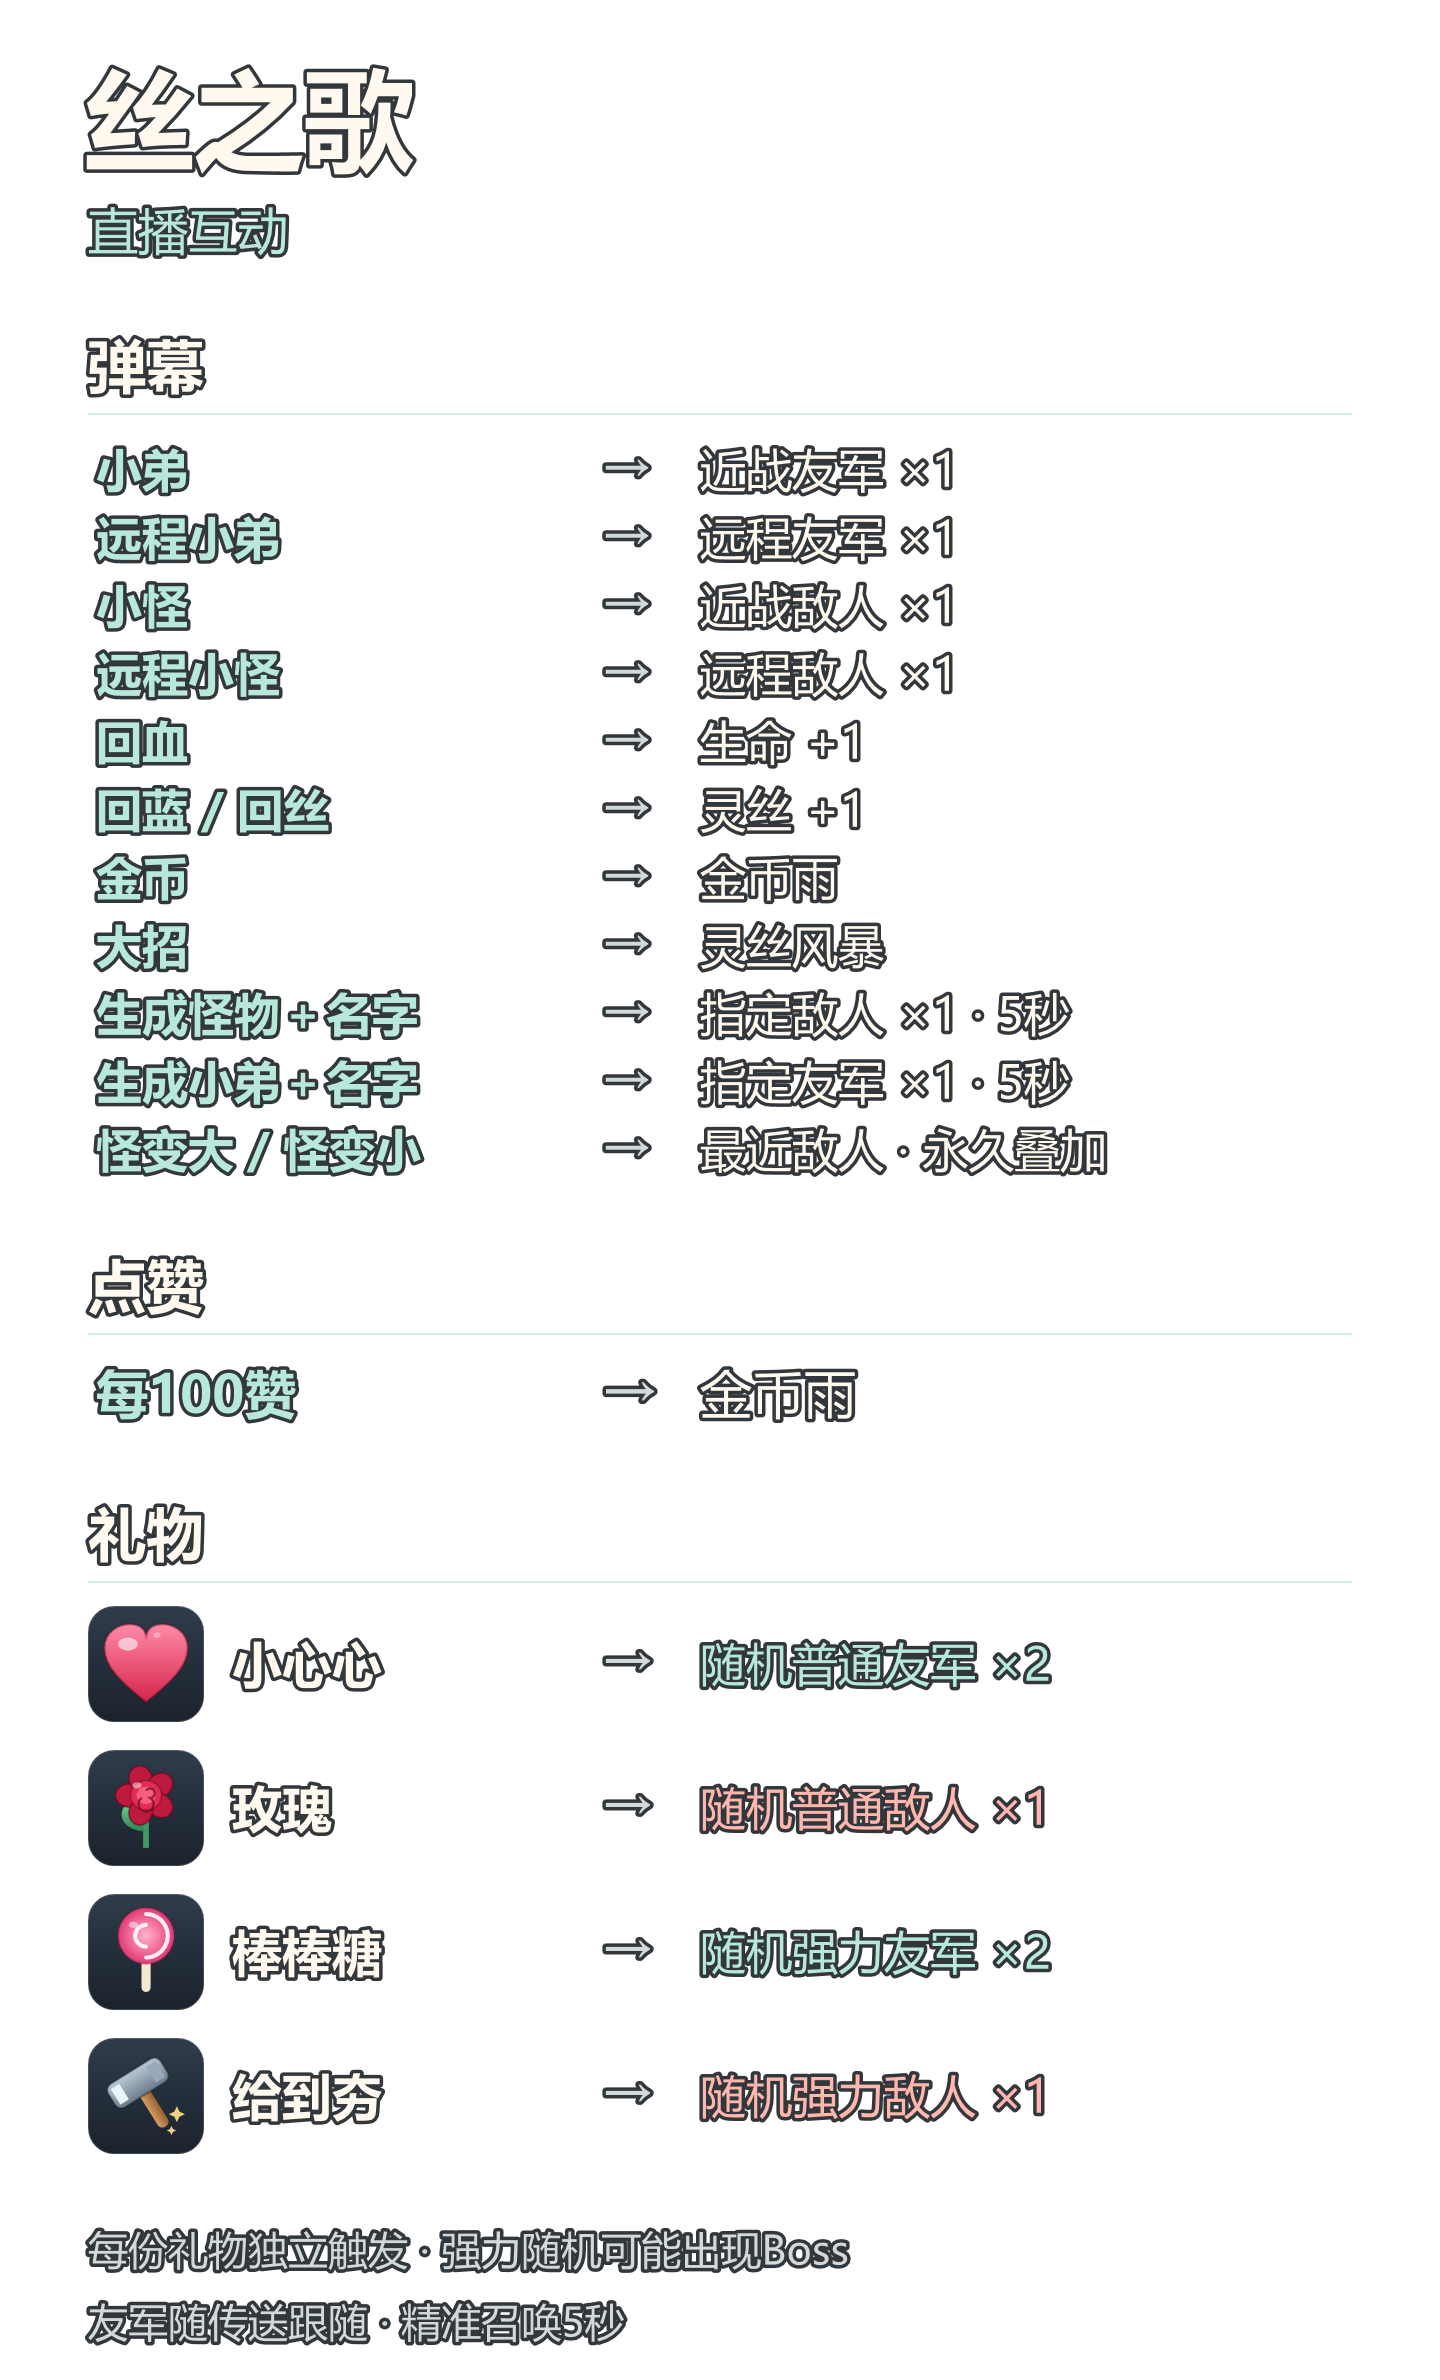
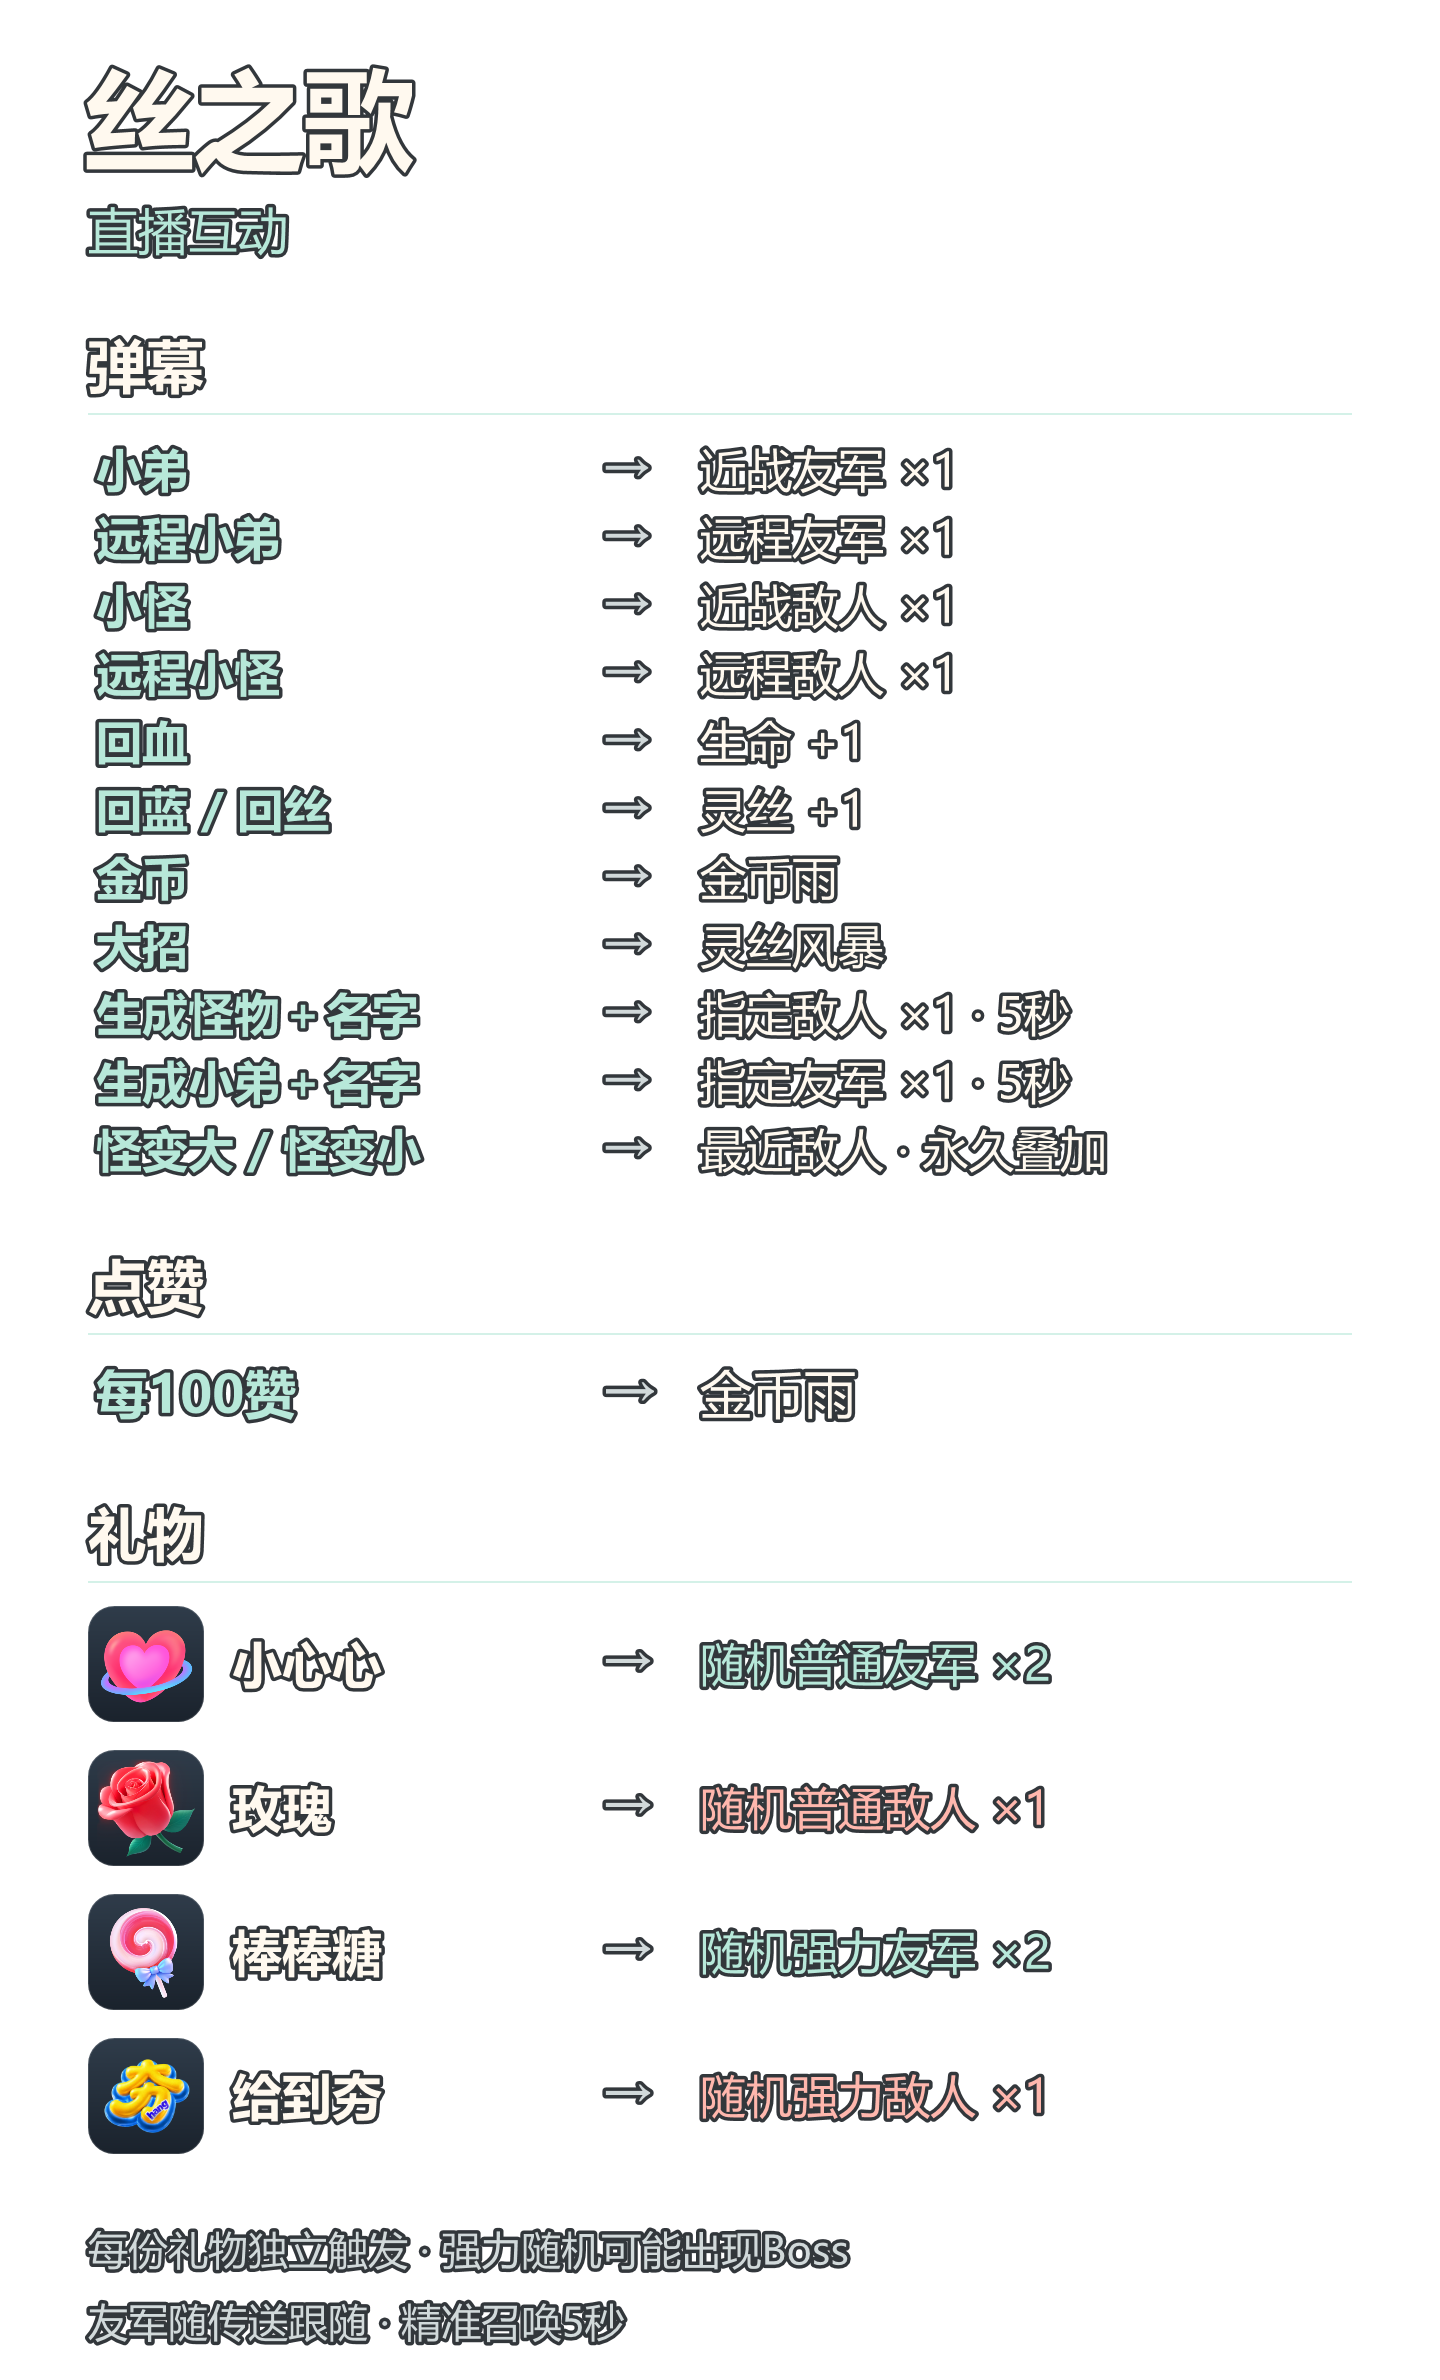
Use official Douyin gift art on the poster

Changed region(s): [[0.0625, 0.684, 0.125, 0.9017]]

diff --git a/tools/PosterRender/Program.cs b/tools/PosterRender/Program.cs
@@ -12,12 +12,13 @@ internal static class Program
     static readonly Brush ink=ColorBrush("#FFF9EF"),green=ColorBrush("#B7E8D9"),red=ColorBrush("#FFB7AD"),muted=ColorBrush("#D1D9DA");
     static Brush ColorBrush(string v)=>new SolidColorBrush((Color)ColorConverter.ConvertFromString(v));
     static JsonArray rules=null!;
+    static string root=null!;
     static JsonObject Rule(string id)=>rules.OfType<JsonObject>().Single(r=>(string?)r["Id"]==id);
     static string Arg(string id,string key)=>(string)Rule(id)["Root"]!["Arguments"]![key]!;
     [STAThread]
     static void Main(string[] args)
     {
-        var root=System.IO.Path.GetFullPath(args[0]);rules=JsonNode.Parse(System.IO.File.ReadAllText(System.IO.Path.Combine(root,"profiles","丝之歌-弹幕助力.json")))!["Rules"]!.AsArray();
+        root=System.IO.Path.GetFullPath(args[0]);rules=JsonNode.Parse(System.IO.File.ReadAllText(System.IO.Path.Combine(root,"profiles","丝之歌-弹幕助力.json")))!["Rules"]!.AsArray();
         var folder=System.IO.Path.Combine(root,"直播素材","0.6新版");System.IO.Directory.CreateDirectory(folder);
         var visual=new DrawingVisual();using(var context=visual.RenderOpen())
         {
@@ -26,10 +27,10 @@ internal static class Program
             for(var i=0;i<chat.Length;i++)Row(chat[i].Item1,chat[i].Item2,220+i*34,23);
             Section("点赞",44,624,632);Row("每100赞","金币雨",680,26);
             Section("礼物",44,748,632);
-            Gift("heart",(string)Rule("v06-heart")["Trigger"]!["GiftName"]!,"随机普通友军 ×2",803,green);
-            Gift("rose",(string)Rule("v06-note")["Trigger"]!["GiftName"]!,"随机普通敌人 ×1",875,red);
-            Gift("lollipop",(string)Rule("v06-strong-friend")["Trigger"]!["GiftName"]!,"随机强力友军 ×2",947,green);
-            Gift("hammer",(string)Rule("v06-strong-enemy")["Trigger"]!["GiftName"]!,"随机强力敌人 ×1",1019,red);
+            Gift("heart.png",(string)Rule("v06-heart")["Trigger"]!["GiftName"]!,"随机普通友军 ×2",803,green);
+            Gift("rose.png",(string)Rule("v06-note")["Trigger"]!["GiftName"]!,"随机普通敌人 ×1",875,red);
+            Gift("lollipop.png",(string)Rule("v06-strong-friend")["Trigger"]!["GiftName"]!,"随机强力友军 ×2",947,green);
+            Gift("han.png",(string)Rule("v06-strong-enemy")["Trigger"]!["GiftName"]!,"随机强力敌人 ×1",1019,red);
             Text("每份礼物独立触发 · 强力随机可能出现Boss",44,1112,20,muted);
             Text("友军随传送跟随 · 精准召唤5秒",44,1148,20,muted);
         }
@@ -37,9 +38,9 @@ internal static class Program
         var encoder=new PngBitmapEncoder();encoder.Frames.Add(BitmapFrame.Create(bitmap));var output=System.IO.Path.Combine(folder,"直播互动说明-透明.png");using(var stream=System.IO.File.Create(output))encoder.Save(stream);
         Console.WriteLine(output+" 1440x2380 RGBA transparent");
     }
-    static void Gift(string icon,string name,string effect,double y,Brush color)
+    static void Gift(string image,string name,string effect,double y,Brush color)
     {
-        GiftIcon(icon,44,y);
+        ImageIcon(image,44,y);
         Text(name,116,y+13,25,ink,true);
         Text("→",302,y+13,24,muted);Text(effect,350,y+14,23,color);
     }
@@ -52,127 +53,15 @@ internal static class Program
         dc.DrawGeometry(null,new Pen(ColorBrush("#E51C2026"),3.5){LineJoin=PenLineJoin.Round},shape);dc.DrawGeometry(fill,null,shape);
     }
 
-    /// <summary>统一的圆角图块，保证四件礼物在同一视觉重量上。</summary>
-    static void GiftIcon(string kind,double x,double y)
+    /// <summary>抖音开放平台公开的官方礼物原图，按图块尺寸等比放进去。</summary>
+    static void ImageIcon(string file,double x,double y)
     {
-        const double size=58,unit=size/64.0;
+        const double size=58;
         var plate=new LinearGradientBrush(Color.FromArgb(255,47,60,74),Color.FromArgb(255,26,34,44),90);
         dc.DrawRoundedRectangle(plate,new Pen(new SolidColorBrush(Color.FromArgb(38,255,255,255)),1),new Rect(x,y,size,size),13,13);
-        dc.PushTransform(new TranslateTransform(x,y));dc.PushTransform(new ScaleTransform(unit,unit));
-        switch(kind)
-        {
-            case "heart":Heart();break;
-            case "rose":Rose();break;
-            case "lollipop":Lollipop();break;
-            default:Hammer();break;
-        }
-        dc.Pop();dc.Pop();
-    }
-    static void Heart()
-    {
-        var heart=new StreamGeometry();
-        using(var c=heart.Open())
-        {
-            c.BeginFigure(new Point(32,53),true,true);
-            c.BezierTo(new Point(17,41),new Point(9,33),new Point(9,23),true,false);
-            c.BezierTo(new Point(9,15),new Point(16,10),new Point(23,10),true,false);
-            c.BezierTo(new Point(28,10),new Point(31,12),new Point(32,16),true,false);
-            c.BezierTo(new Point(33,12),new Point(36,10),new Point(41,10),true,false);
-            c.BezierTo(new Point(48,10),new Point(55,15),new Point(55,23),true,false);
-            c.BezierTo(new Point(55,33),new Point(47,41),new Point(32,53),true,false);
-        }
-        heart.Freeze();
-        var fill=new LinearGradientBrush(Color.FromArgb(255,255,138,168),Color.FromArgb(255,214,36,74),90);
-        dc.DrawGeometry(fill,new Pen(new SolidColorBrush(Color.FromArgb(90,90,10,30)),1.4),heart);
-        var shine=new SolidColorBrush(Color.FromArgb(150,255,255,255));
-        dc.DrawEllipse(shine,null,new Point(22,21),5.4,3.6);
-        dc.DrawEllipse(new SolidColorBrush(Color.FromArgb(90,255,255,255)),null,new Point(38,16),2.1,1.5);
-    }
-    static void Rose()
-    {
-        dc.DrawLine(new Pen(new SolidColorBrush(Color.FromArgb(255,62,155,99)),3.2),new Point(32,54),new Point(32,34));
-        var leaf=new StreamGeometry();
-        using(var c=leaf.Open())
-        {
-            c.BeginFigure(new Point(31,45),true,true);
-            c.BezierTo(new Point(20,44),new Point(16,37),new Point(20,31),true,false);
-            c.BezierTo(new Point(27,32),new Point(31,37),new Point(31,45),true,false);
-        }
-        leaf.Freeze();
-        dc.DrawGeometry(new LinearGradientBrush(Color.FromArgb(255,104,204,140),Color.FromArgb(255,44,128,80),90),null,leaf);
-        // 五片外瓣 + 内层花瓣，避免缩到 58px 后糊成一个球。
-        var outer=new SolidColorBrush(Color.FromArgb(255,190,26,62));
-        var outerEdge=new Pen(new SolidColorBrush(Color.FromArgb(140,92,6,28)),1);
-        for(var i=0;i<5;i++)
-        {
-            var angle=i*72-90;
-            dc.PushTransform(new RotateTransform(angle,32,25));
-            dc.DrawEllipse(outer,outerEdge,new Point(32,15.5),6.4,7.4);
-            dc.Pop();
-        }
-        dc.DrawEllipse(new SolidColorBrush(Color.FromArgb(255,226,44,86)),new Pen(new SolidColorBrush(Color.FromArgb(120,120,10,36)),1),new Point(32,25),8.6,8.2);
-        dc.DrawEllipse(new SolidColorBrush(Color.FromArgb(255,247,94,124)),null,new Point(32,25),5.2,4.8);
-        var curl=new Pen(new SolidColorBrush(Color.FromArgb(190,120,12,38)),1.3);
-        var spiral=new StreamGeometry();
-        using(var c=spiral.Open())
-        {
-            c.BeginFigure(new Point(32,22.4),false,false);
-            c.ArcTo(new Point(34.4,26.4),new Size(2.6,2.6),0,true,SweepDirection.Clockwise,true,false);
-            c.ArcTo(new Point(29.6,26.4),new Size(4.2,4.2),0,true,SweepDirection.Clockwise,true,false);
-        }
-        spiral.Freeze();
-        dc.DrawGeometry(null,curl,spiral);
-        dc.DrawEllipse(new SolidColorBrush(Color.FromArgb(120,255,255,255)),null,new Point(27,19.5),2.6,1.7);
-    }
-    static void Lollipop()
-    {
-        dc.DrawRoundedRectangle(new SolidColorBrush(Color.FromArgb(255,244,232,208)),null,new Rect(29.5,32,5,22),2.4,2.4);
-        dc.DrawEllipse(new RadialGradientBrush(Color.FromArgb(255,255,178,205),Color.FromArgb(255,226,58,116)),new Pen(new SolidColorBrush(Color.FromArgb(70,120,10,50)),1.2),new Point(32,23),15.5,15.5);
-        var white=new Pen(new SolidColorBrush(Color.FromArgb(225,255,255,255)),2.3){StartLineCap=PenLineCap.Round,EndLineCap=PenLineCap.Round};
-        var swirl=new StreamGeometry();
-        using(var c=swirl.Open())
-        {
-            c.BeginFigure(new Point(32,11),false,false);
-            c.ArcTo(new Point(32,35),new Size(12,12),0,true,SweepDirection.Clockwise,true,false);
-        }
-        swirl.Freeze();
-        dc.DrawGeometry(null,white,swirl);
-        var inner=new StreamGeometry();
-        using(var c=inner.Open())
-        {
-            c.BeginFigure(new Point(32,17),false,false);
-            c.ArcTo(new Point(32,29),new Size(6,6),0,true,SweepDirection.Counterclockwise,true,false);
-        }
-        inner.Freeze();
-        dc.DrawGeometry(null,white,inner);
-        dc.DrawEllipse(new SolidColorBrush(Color.FromArgb(120,255,255,255)),null,new Point(25,17),2.6,1.8);
-    }
-    static void Hammer()
-    {
-        // 木柄 + 金属锤头，整体收在 64 框内，缩到 58px 也不会压到图块边缘。
-        dc.PushTransform(new RotateTransform(-32,32,32));
-        dc.DrawRoundedRectangle(new LinearGradientBrush(Color.FromArgb(255,214,158,98),Color.FromArgb(255,150,96,48),0),null,new Rect(29,26,6.5,26),3,3);
-        dc.DrawRoundedRectangle(new LinearGradientBrush(Color.FromArgb(255,186,201,214),Color.FromArgb(255,108,124,140),90),new Pen(new SolidColorBrush(Color.FromArgb(90,20,28,36)),1.2),new Rect(15,16,34,15),4,4);
-        dc.DrawRectangle(new SolidColorBrush(Color.FromArgb(255,236,245,252)),null,new Rect(17.5,18.5,5.5,10));
-        dc.DrawRectangle(new SolidColorBrush(Color.FromArgb(255,152,170,186)),null,new Rect(40.5,18.5,6,10));
-        dc.Pop();
-        var sparkle=new SolidColorBrush(Color.FromArgb(235,255,222,140));
-        Star(sparkle,new Point(49,42),4.4);Star(sparkle,new Point(46,51),2.6);
-    }
-    static void Star(Brush brush,Point center,double radius)
-    {
-        var star=new StreamGeometry();
-        using(var c=star.Open())
-        {
-            c.BeginFigure(new Point(center.X,center.Y-radius),true,true);
-            c.LineTo(new Point(center.X+radius*.32,center.Y-radius*.32),true,false);
-            c.LineTo(new Point(center.X+radius,center.Y),true,false);
-            c.LineTo(new Point(center.X+radius*.32,center.Y+radius*.32),true,false);
-            c.LineTo(new Point(center.X,center.Y+radius),true,false);
-            c.LineTo(new Point(center.X-radius*.32,center.Y+radius*.32),true,false);
-            c.LineTo(new Point(center.X-radius,center.Y),true,false);
-            c.LineTo(new Point(center.X-radius*.32,center.Y-radius*.32),true,false);
-        }
-        star.Freeze();dc.DrawGeometry(brush,null,star);
+        var bitmap=new BitmapImage(new Uri(System.IO.Path.Combine(root,"直播素材","官方礼物图标",file)));
+        var scale=Math.Min((size-8)/bitmap.PixelWidth,(size-8)/bitmap.PixelHeight);
+        var width=bitmap.PixelWidth*scale;var height=bitmap.PixelHeight*scale;
+        dc.DrawImage(bitmap,new Rect(x+(size-width)/2,y+(size-height)/2,width,height));
     }
 }

diff --git a/CHANGELOG.md b/CHANGELOG.md
@@ -4,7 +4,7 @@
 
 新增哔哩哔哩支持：连接窗口可选抖音或哔哩哔哩，哔哩哔哩走网页自己已经建立的弹幕长连接，解析 16 字节头 + zlib/brotli 压缩的协议包，支持弹幕、礼物、房间点赞总量增量、进场/关注/分享和醒目留言。只读不改写，不代为登录也不发送平台消息；礼物单价取金瓜子且与抖音的钻不是同一单位，跨平台请用名称匹配。
 
-直播图按本轮意见重排：去掉“· 常驻”标注，点赞改为“每100赞 → 金币雨”，四件礼物改成同一套绘制图标（含此前缺失的棒棒糖与给到夯）。
+直播图按本轮意见重排：去掉“· 常驻”标注，点赞改为“每100赞 → 金币雨”，四件礼物改用抖音官方礼物列表返回的原图（小心心 463、玫瑰 2001、棒棒糖 165、给到夯 16075），此前缺失的棒棒糖与给到夯也有了官方图标。
 
 哔哩哔哩解码只用构造数据包做了解析自检，没有在真实直播间收过包；连接、去重与点赞增量仍要实机确认。
 

diff --git a/docs/0.7使用说明.md b/docs/0.7使用说明.md
@@ -49,7 +49,7 @@
 
 ## 直播图来源
 
-四件礼物的图标是本工具按同一种风格绘制的示意图标，不是平台官方美术，也不标注未经核实的金额。需要换成平台原图时，替换 直播素材/官方礼物图标 下的同名文件后重新生成即可。
+四件礼物使用抖音直播间官方礼物列表返回的原图：小心心（463）、玫瑰（2001）、棒棒糖（165）、给到夯（16075），图上不标未经核实的金额。图标文件在 直播素材/官方礼物图标/，来源与单价记录在同目录 sources.json；平台换图后替换同名文件重新生成即可。
 
 ## 当前验收状态
 
